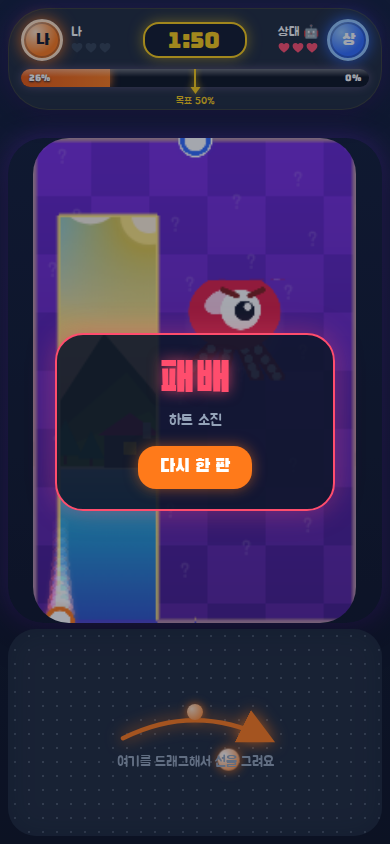
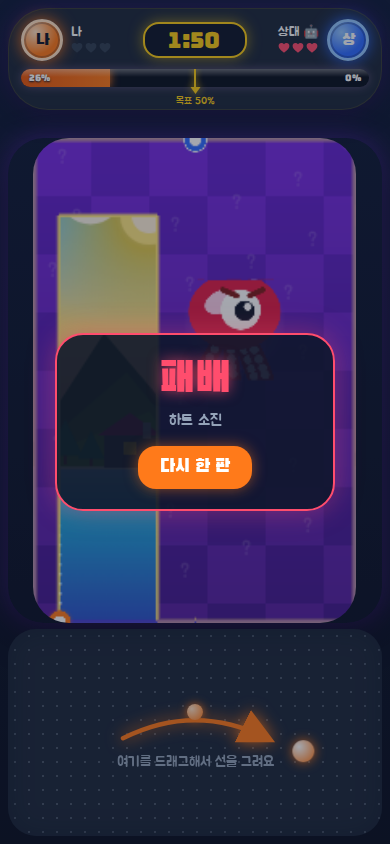
docs(qa): visible orb ring 20/14/22px at 390/360/412 vs mockup A
Orange-disc ring (not texture): 20px (6.2%) at 390×844, 14px (6.3%)
at 360×640, 22px (6.1%) at 412×915. Mockup A is 19.7px (6.1%).
Trail WIDTH 4/4/5px. Afterimages track the trail, not the orb ring.

diff --git a/tests/e2e/cover-layout.spec.ts b/tests/e2e/cover-layout.spec.ts
@@ -122,6 +122,7 @@ async function measureRenderedTrail(page: Page): Promise<TrailMeasure> {
         const ux = Math.cos(ang);
         const uy = Math.sin(ang);
         let rad = 0;
+        let miss = 0;
         for (let t = 1; t < 40; t++) {
           const x = Math.round(cx + ux * t);
           const y = Math.round(cy + uy * t);
@@ -131,9 +132,14 @@ async function measureRenderedTrail(page: Page): Promise<TrailMeasure> {
           const g = data[i + 1];
           const b = data[i + 2];
           const white = r >= 220 && g >= 220 && b >= 210;
-          const orange = r >= 170 && g >= 40 && g <= 200 && b <= 140 && r > g && r > b + 10;
-          if (white || orange) rad = t;
-          else if (rad > 0) break;
+          const orange = r >= 150 && g >= 30 && g <= 220 && b <= 180 && r > g && r > b;
+          if (white || orange) {
+            rad = t;
+            miss = 0;
+          } else if (rad > 0) {
+            miss++;
+            if (miss >= 3) break;
+          }
         }
         if (rad > 0) radii.push(rad);
       }
